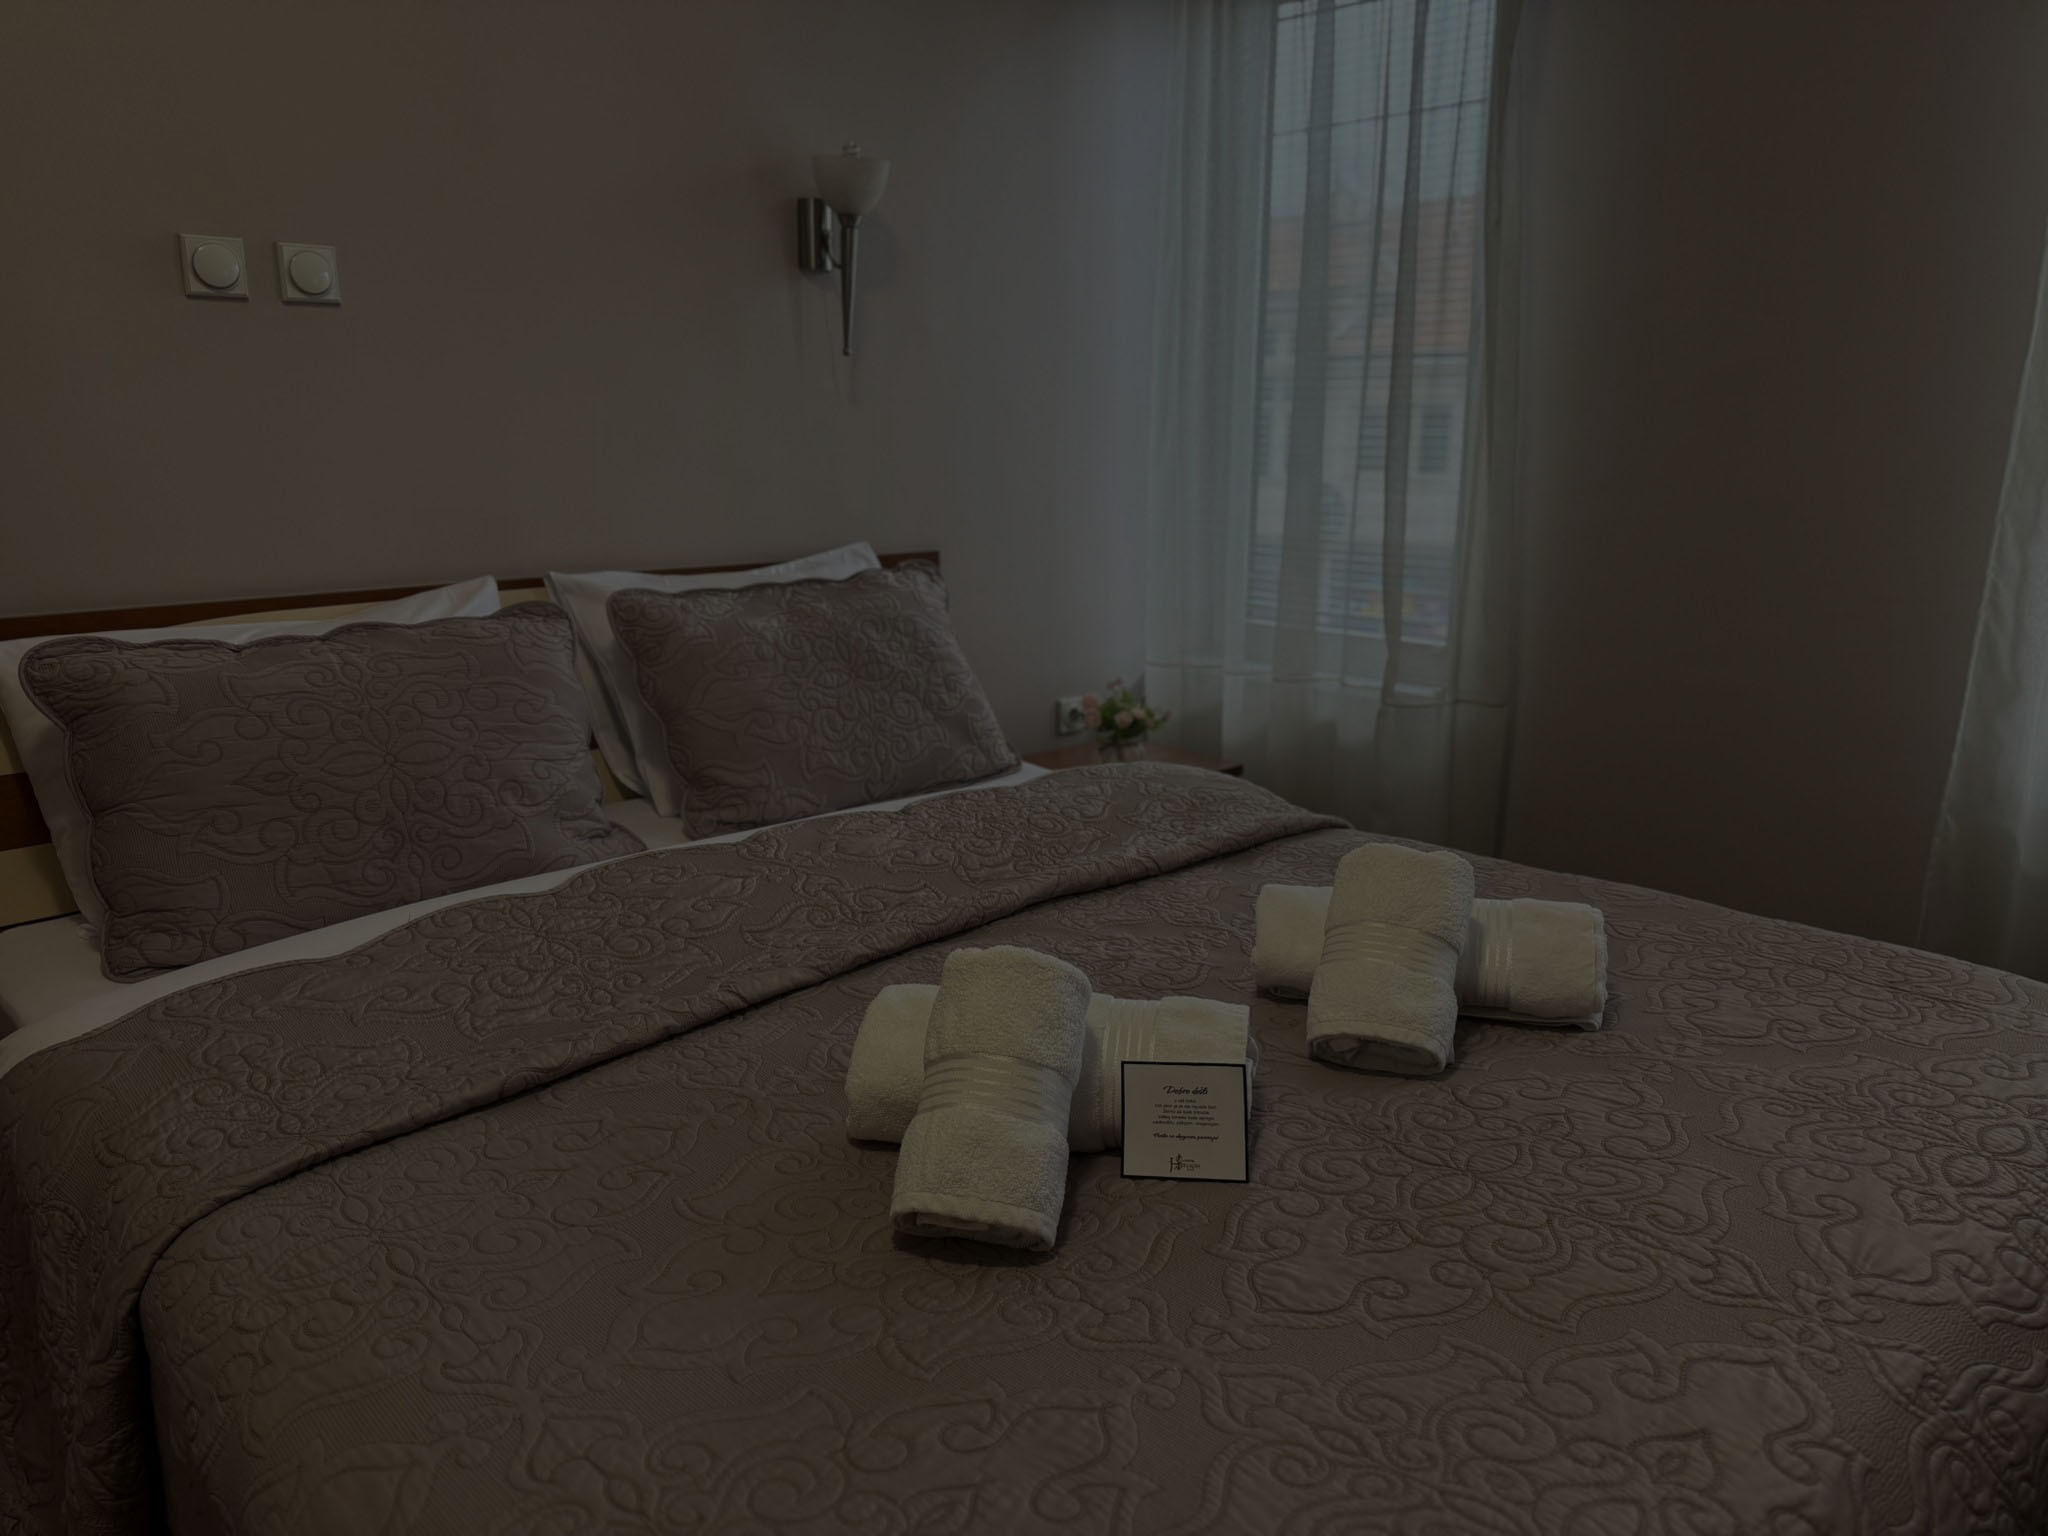
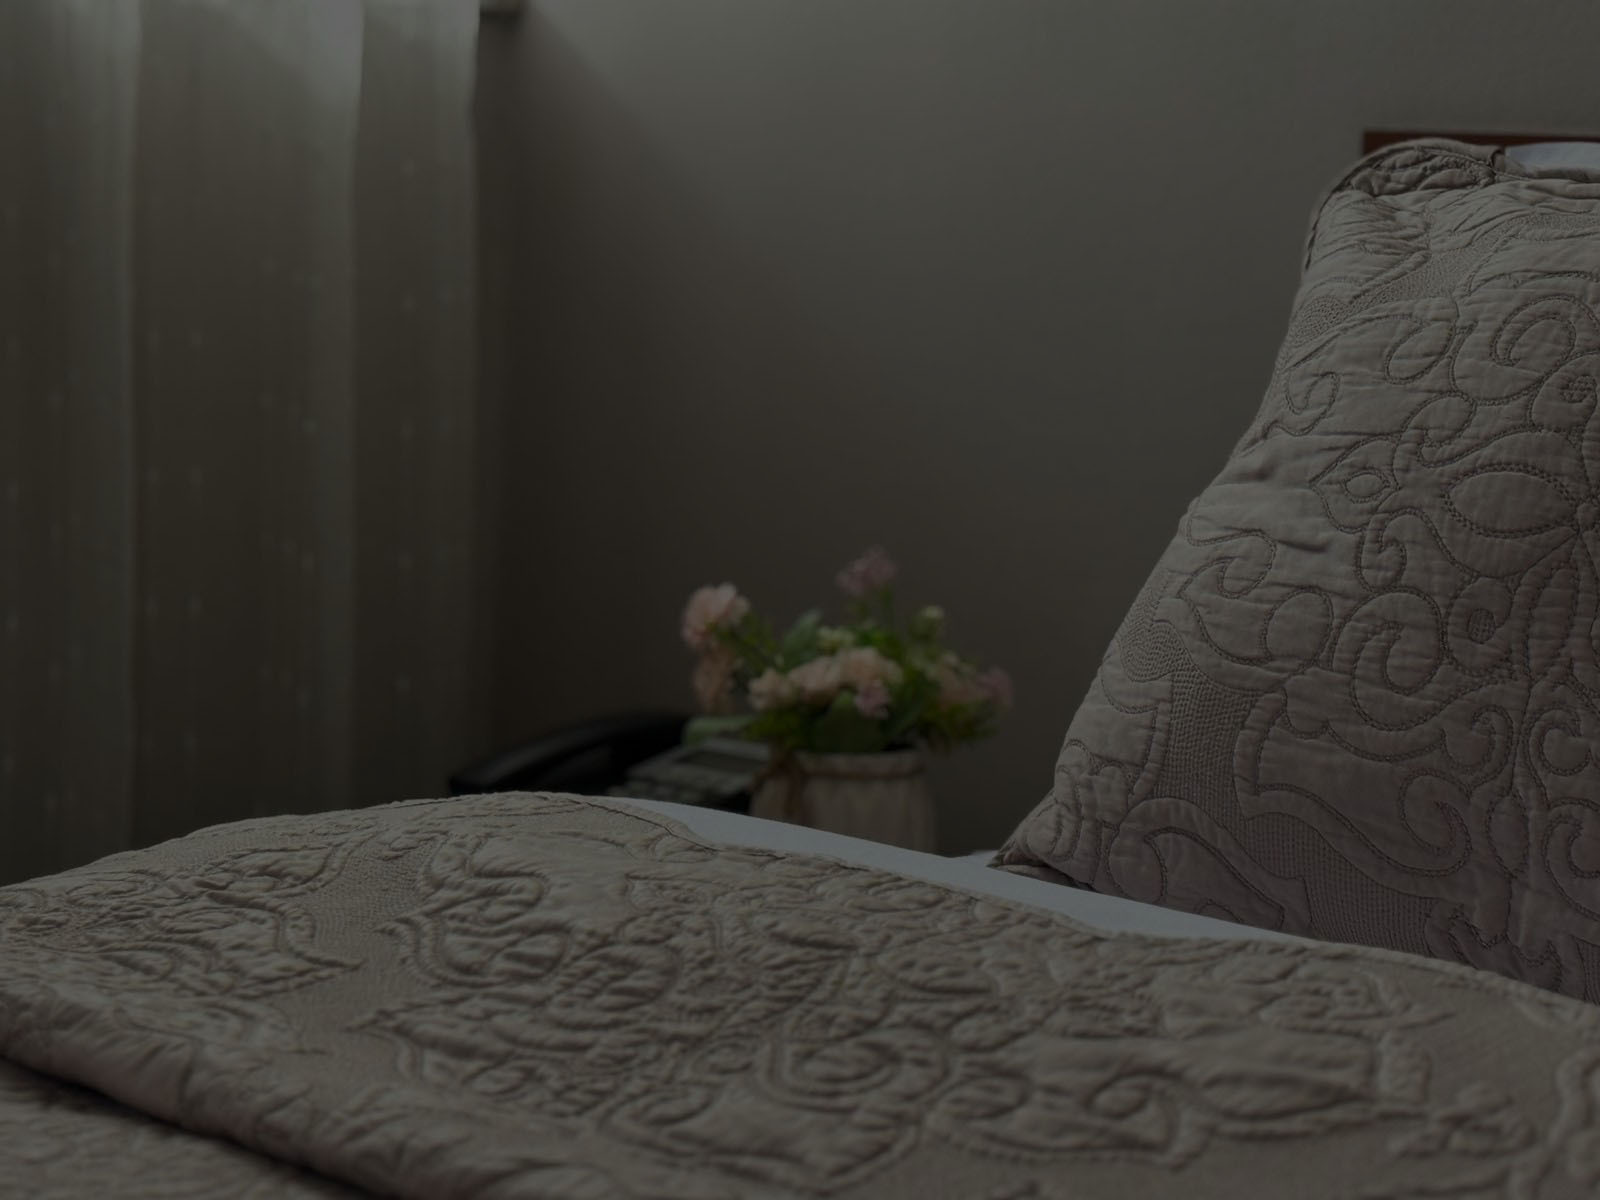
picturessss

diff --git a/app/(moduls)/services/RoomService/RoomService.tsx b/app/(moduls)/services/RoomService/RoomService.tsx
@@ -95,9 +95,9 @@ const RoomService = ({ images, nameKey, descriptionKey, features, prices }: Prop
           </button>
         </div>
 
-        {/* Thumbnails (Shows first 5) */}
+        {/* Thumbnails */}
         <div className="flex gap-2 overflow-x-auto pb-1">
-          {images.slice(0, 5).map((img, idx) => (
+          {images.map((img, idx) => (
             <button
               key={idx}
               onClick={() => setCurrentIndex(idx)}